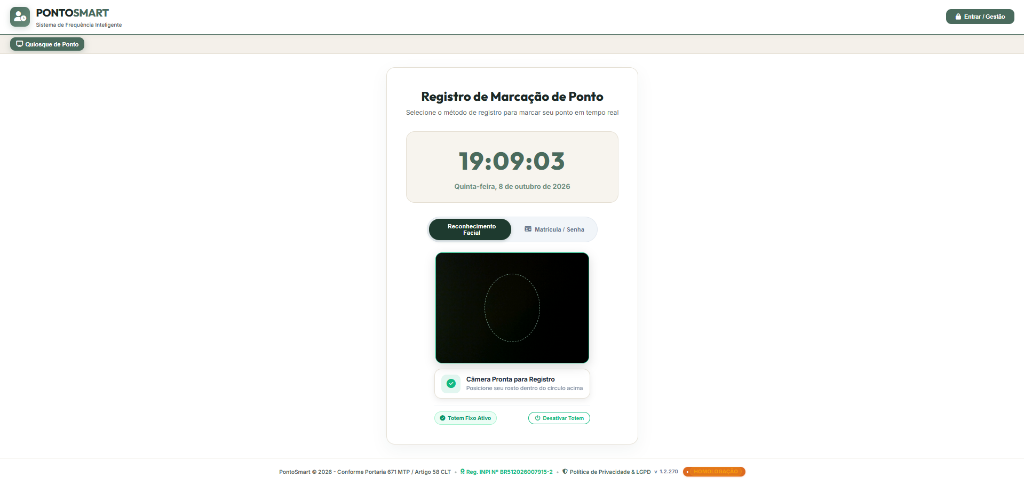
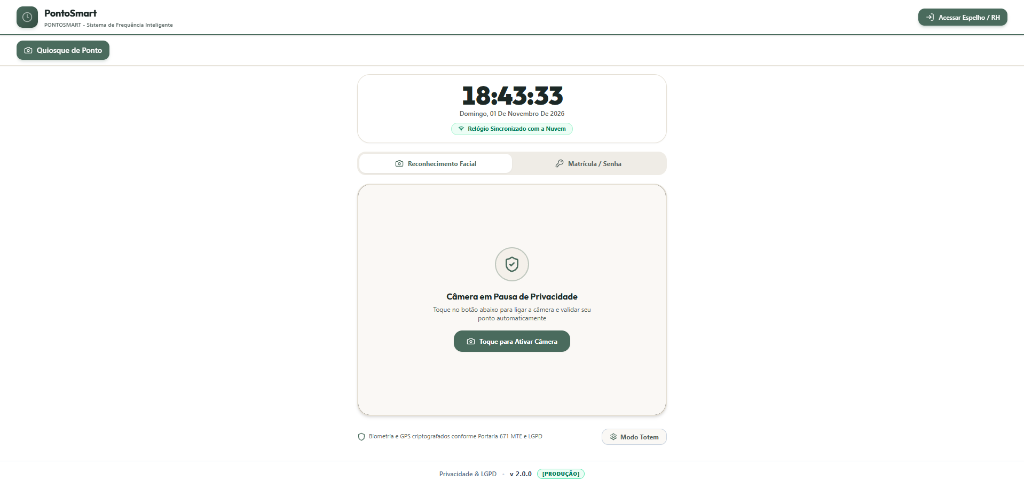
feat: add agendamento, cobranca cards and update pontosmart

diff --git a/index.html b/index.html
@@ -478,6 +478,80 @@
             </div>
           </div>
         </div>
+
+        <!-- Project 5: Agendamento de Clientes SaaS -->
+        <div class="col-md-6 col-lg-6 project-item" data-category="systems">
+          <div class="glass-card project-card">
+            <div class="project-img-wrapper" data-gallery-project="agendamento_saas" role="button" tabindex="0" title="Clique para expandir e ver telas">
+              <img src="assets/project_agendamento.svg" alt="SaaS de Agendamento Online e Gestão de Clínicas" class="project-img">
+              <div class="project-img-overlay">
+                <i class="fa-solid fa-magnifying-glass-plus"></i>
+                <span>Ver Telas em Alta Resolução</span>
+              </div>
+              <span class="project-badge-cat">SaaS • Multi-tenant</span>
+              <span class="project-photo-count"><i class="fa-solid fa-image"></i> 1 Tela</span>
+            </div>
+            <div class="project-content">
+              <h3 class="project-title">Agendamento Online &amp; Gestão de Clínicas</h3>
+              <p class="project-description">
+                Plataforma SaaS multi-tenant para clínicas e estética. Painel administrativo com controle de cabines, salas de procedimentos, múltiplos profissionais, regras de antecedência mínima e link público por clínica (multi-tenancy por slug).
+              </p>
+              <div class="project-metrics">
+                <i class="fa-solid fa-calendar-check"></i> Multi-tenant Isolado • Agenda Pública em Tempo Real
+              </div>
+              <div class="project-footer justify-content-between">
+                <div class="d-flex flex-wrap gap-1">
+                  <span class="mini-pill">Next.js 16</span>
+                  <span class="mini-pill">React 19</span>
+                  <span class="mini-pill">TypeScript</span>
+                  <span class="mini-pill">Prisma ORM</span>
+                  <span class="mini-pill">PostgreSQL</span>
+                  <span class="mini-pill">Tailwind CSS</span>
+                </div>
+                <button type="button" class="btn-gallery-trigger" data-gallery-project="agendamento_saas" title="Expandir Galeria">
+                  <i class="fa-solid fa-expand"></i> Telas
+                </button>
+              </div>
+            </div>
+          </div>
+        </div>
+
+        <!-- Project 6: Cobrança Recorrente & PIX -->
+        <div class="col-md-6 col-lg-6 project-item" data-category="systems">
+          <div class="glass-card project-card">
+            <div class="project-img-wrapper" data-gallery-project="cobranca_saas" role="button" tabindex="0" title="Clique para expandir e ver telas">
+              <img src="assets/project_cobranca.svg" alt="Sistema de Cobrança Recorrente e Régua PIX" class="project-img">
+              <div class="project-img-overlay">
+                <i class="fa-solid fa-magnifying-glass-plus"></i>
+                <span>Ver Telas em Alta Resolução</span>
+              </div>
+              <span class="project-badge-cat">Fintech • Cobrança &amp; PIX</span>
+              <span class="project-photo-count"><i class="fa-solid fa-image"></i> 1 Tela</span>
+            </div>
+            <div class="project-content">
+              <h3 class="project-title">Sistema de Cobrança Recorrente &amp; Régua PIX</h3>
+              <p class="project-description">
+                Arquitetura corporativa em NestJS e Next.js para faturamento recorrente automatizado. Régua de cobrança multicanal (WhatsApp E.164 e E-mail), geração de PIX Dinâmico com QR Code, conciliação e proteção com inteiros em centavos.
+              </p>
+              <div class="project-metrics">
+                <i class="fa-solid fa-receipt"></i> 100% Tipado • PIX Dinâmico &amp; Régua WhatsApp
+              </div>
+              <div class="project-footer justify-content-between">
+                <div class="d-flex flex-wrap gap-1">
+                  <span class="mini-pill">NestJS</span>
+                  <span class="mini-pill">TypeScript</span>
+                  <span class="mini-pill">Next.js</span>
+                  <span class="mini-pill">PostgreSQL</span>
+                  <span class="mini-pill">Supabase RLS</span>
+                  <span class="mini-pill">Prisma ORM</span>
+                </div>
+                <button type="button" class="btn-gallery-trigger" data-gallery-project="cobranca_saas" title="Expandir Galeria">
+                  <i class="fa-solid fa-expand"></i> Telas
+                </button>
+              </div>
+            </div>
+          </div>
+        </div>
       </div>
     </div>
   </section>

diff --git a/js/main.js b/js/main.js
@@ -112,6 +112,27 @@ function initSmoothScroll() {
    4. GALERIA DE TELAS DOS PROJETOS (MODAL & CARROSSEL / PASSADOR)
    ========================================================================== */
 const projectGalleries = {
+  agendamento_saas: {
+    title: 'Agendamento Online & Gestão de Clínicas (SaaS)',
+    category: 'SaaS • Multi-tenant • Agendamento',
+    slides: [
+      {
+        src: 'assets/project_agendamento.svg',
+        caption: 'Grade de Horários, Cabines de Procedimento e Sincronização em Tempo Real'
+      }
+    ]
+  },
+  cobranca_saas: {
+    title: 'Sistema de Cobrança Recorrente & Régua PIX',
+    category: 'Fintech • Cobrança & Mensageria',
+    slides: [
+      {
+        src: 'assets/project_cobranca.svg',
+        caption: 'Dashboard de Faturamento, Conciliação PIX QR Code e Régua de WhatsApp (E.164)'
+      }
+    ]
+  },
+
   pontosmart: {
     title: 'PontoSmart — Ponto Eletrônico & IA Facial',
     category: 'SaaS • Biometria Facial',
